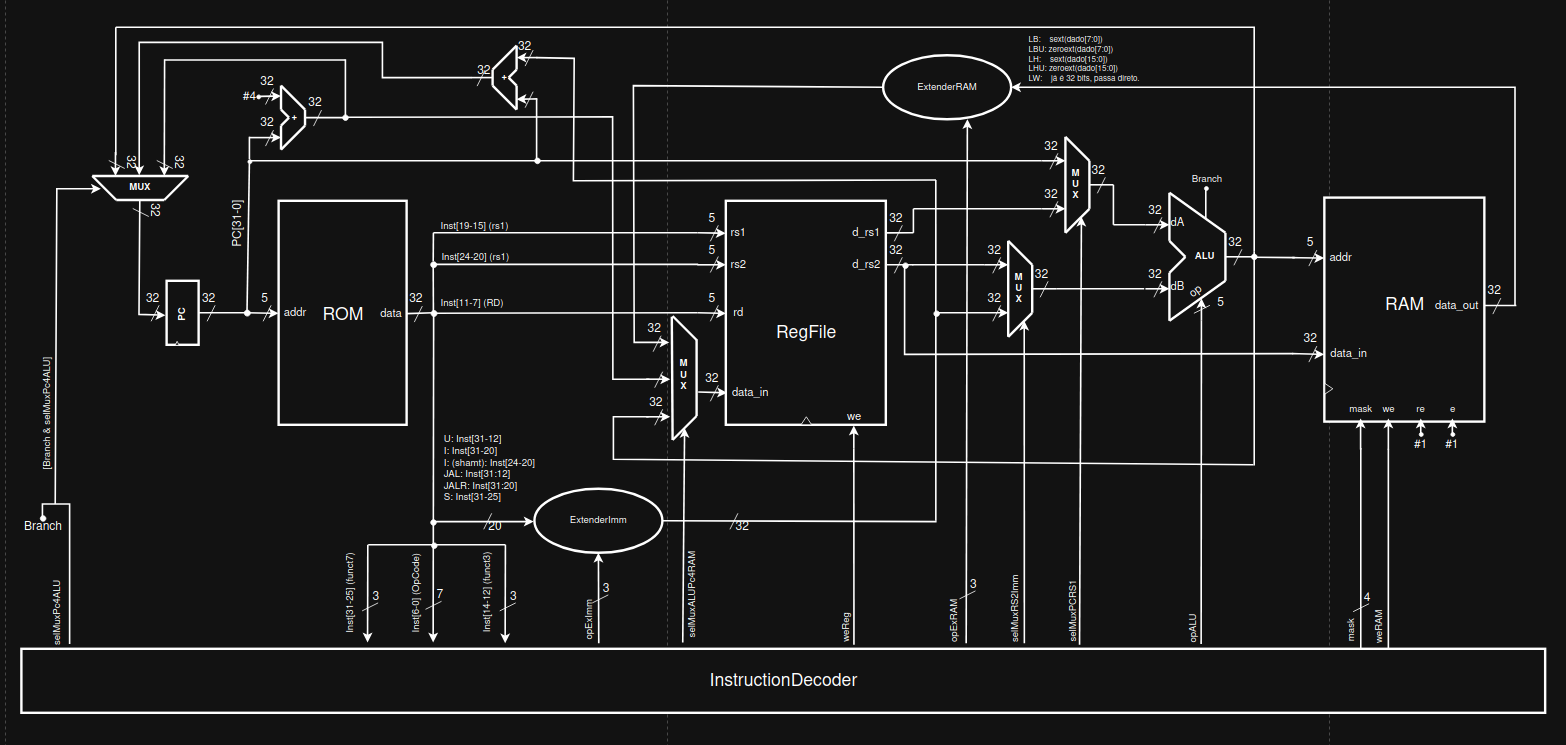
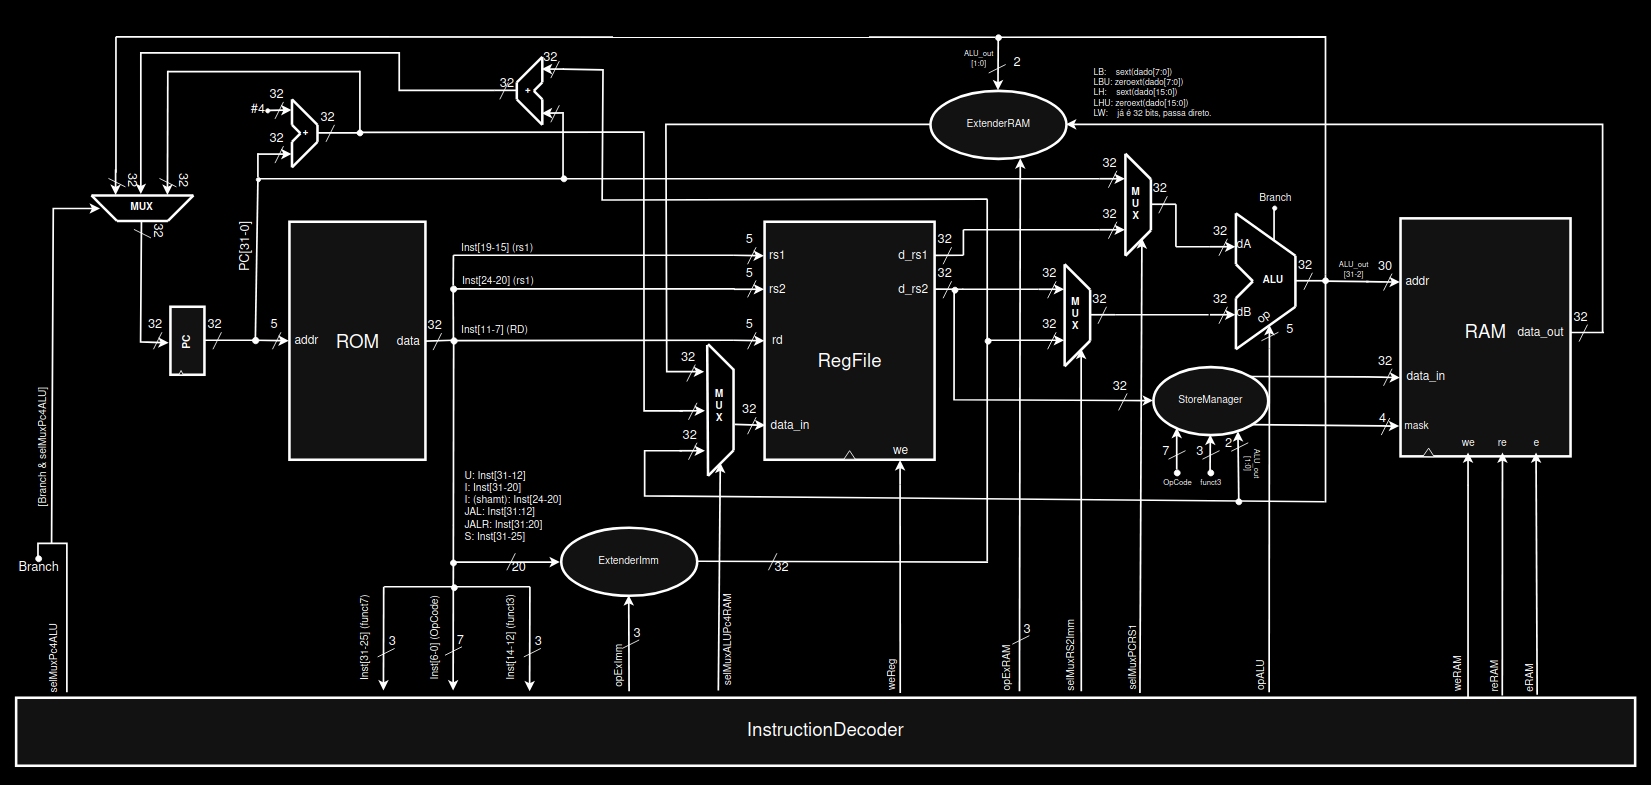
alteracoes no RAM, Extender RAM. Criacao de StoreManager. Criaca de seus testes.

Changed region(s): [[0.0, 0.0309, 1.0, 0.9879], [0.4598, 0.0926, 0.5211, 0.1235], [0.3985, 0.0926, 0.4291, 0.1235]]

diff --git a/docs/a.md b/docs/a.md
@@ -1,0 +1,65 @@
+### Linha 0 → `addi ra, x0, 5` 
+
+* ra = 0 + 5 = **0x00000005**
+* **ULA saída:** `0x00000005`
+
+### Linha 4 → `addi sp, x0, 7`
+
+* sp = 0 + 7 = **0x00000007** 
+* **ULA saída:** `0x00000007`
+
+### Linha 8 → `add gp, ra, sp` 
+
+* gp = 5 + 7 = **0x0000000C**
+* **ULA saída:** `0x0000000C`
+
+### Linha 12 → `sub tp, sp, ra` 
+
+* tp = 7 – 5 = **0x00000002**
+* **ULA saída:** `0x00000002`
+
+### Linha 16 → `and t0, ra, sp`
+
+* 5 = `0101₂`, 7 = `0111₂`
+* 5 AND 7 = `0101₂` = **0x00000005**
+* **ULA saída:** `0x00000005`
+
+### Linha 20 → `or t1, ra, sp`
+
+* 5 OR 7 = `0111₂` = **0x00000007**
+* **ULA saída:** `0x00000007`
+
+### Linha 24 → `xor t2, ra, sp`
+
+* 5 XOR 7 = `0010₂` = **0x00000002**
+* **ULA saída:** `0x00000002`
+
+### Linha 28 → `sll s0, ra, sp`
+
+* ra = 5 (`0b0101`)
+* sp = 7 → shift amount = 7
+* 5 << 7 = 640 = **0x00000280**
+* **ULA saída:** `0x00000280`
+
+### Linha 32 → `srl s1, s0, sp`
+
+* s0 = 0x280 = 640
+* 640 >> 7 = 5 = **0x00000005**
+* **ULA saída:** `0x00000005`
+
+### Linha 36 → `slt a0, ra, sp`
+
+* compara ra=5 < sp=7? Verdade → 1
+* **ULA saída:** `0x00000001`
+
+### Linha 40 → `addi a1, a1, 1`
+
+* a1 inicial = 0
+* a1 = 0 + 1 = **0x00000001**
+* **ULA saída:** `0x00000001` (vai continuar incrementando em cada volta do loop)
+
+### Linha 44 → `jal x0, loop`
+
+* Desvia para label `loop` (linha 40)
+* **ULA saída:** PC+4 (mas como dest é x0, resultado é descartado)
+* **Efeito:** processador entra num **loop infinito** incrementando `a1`.
